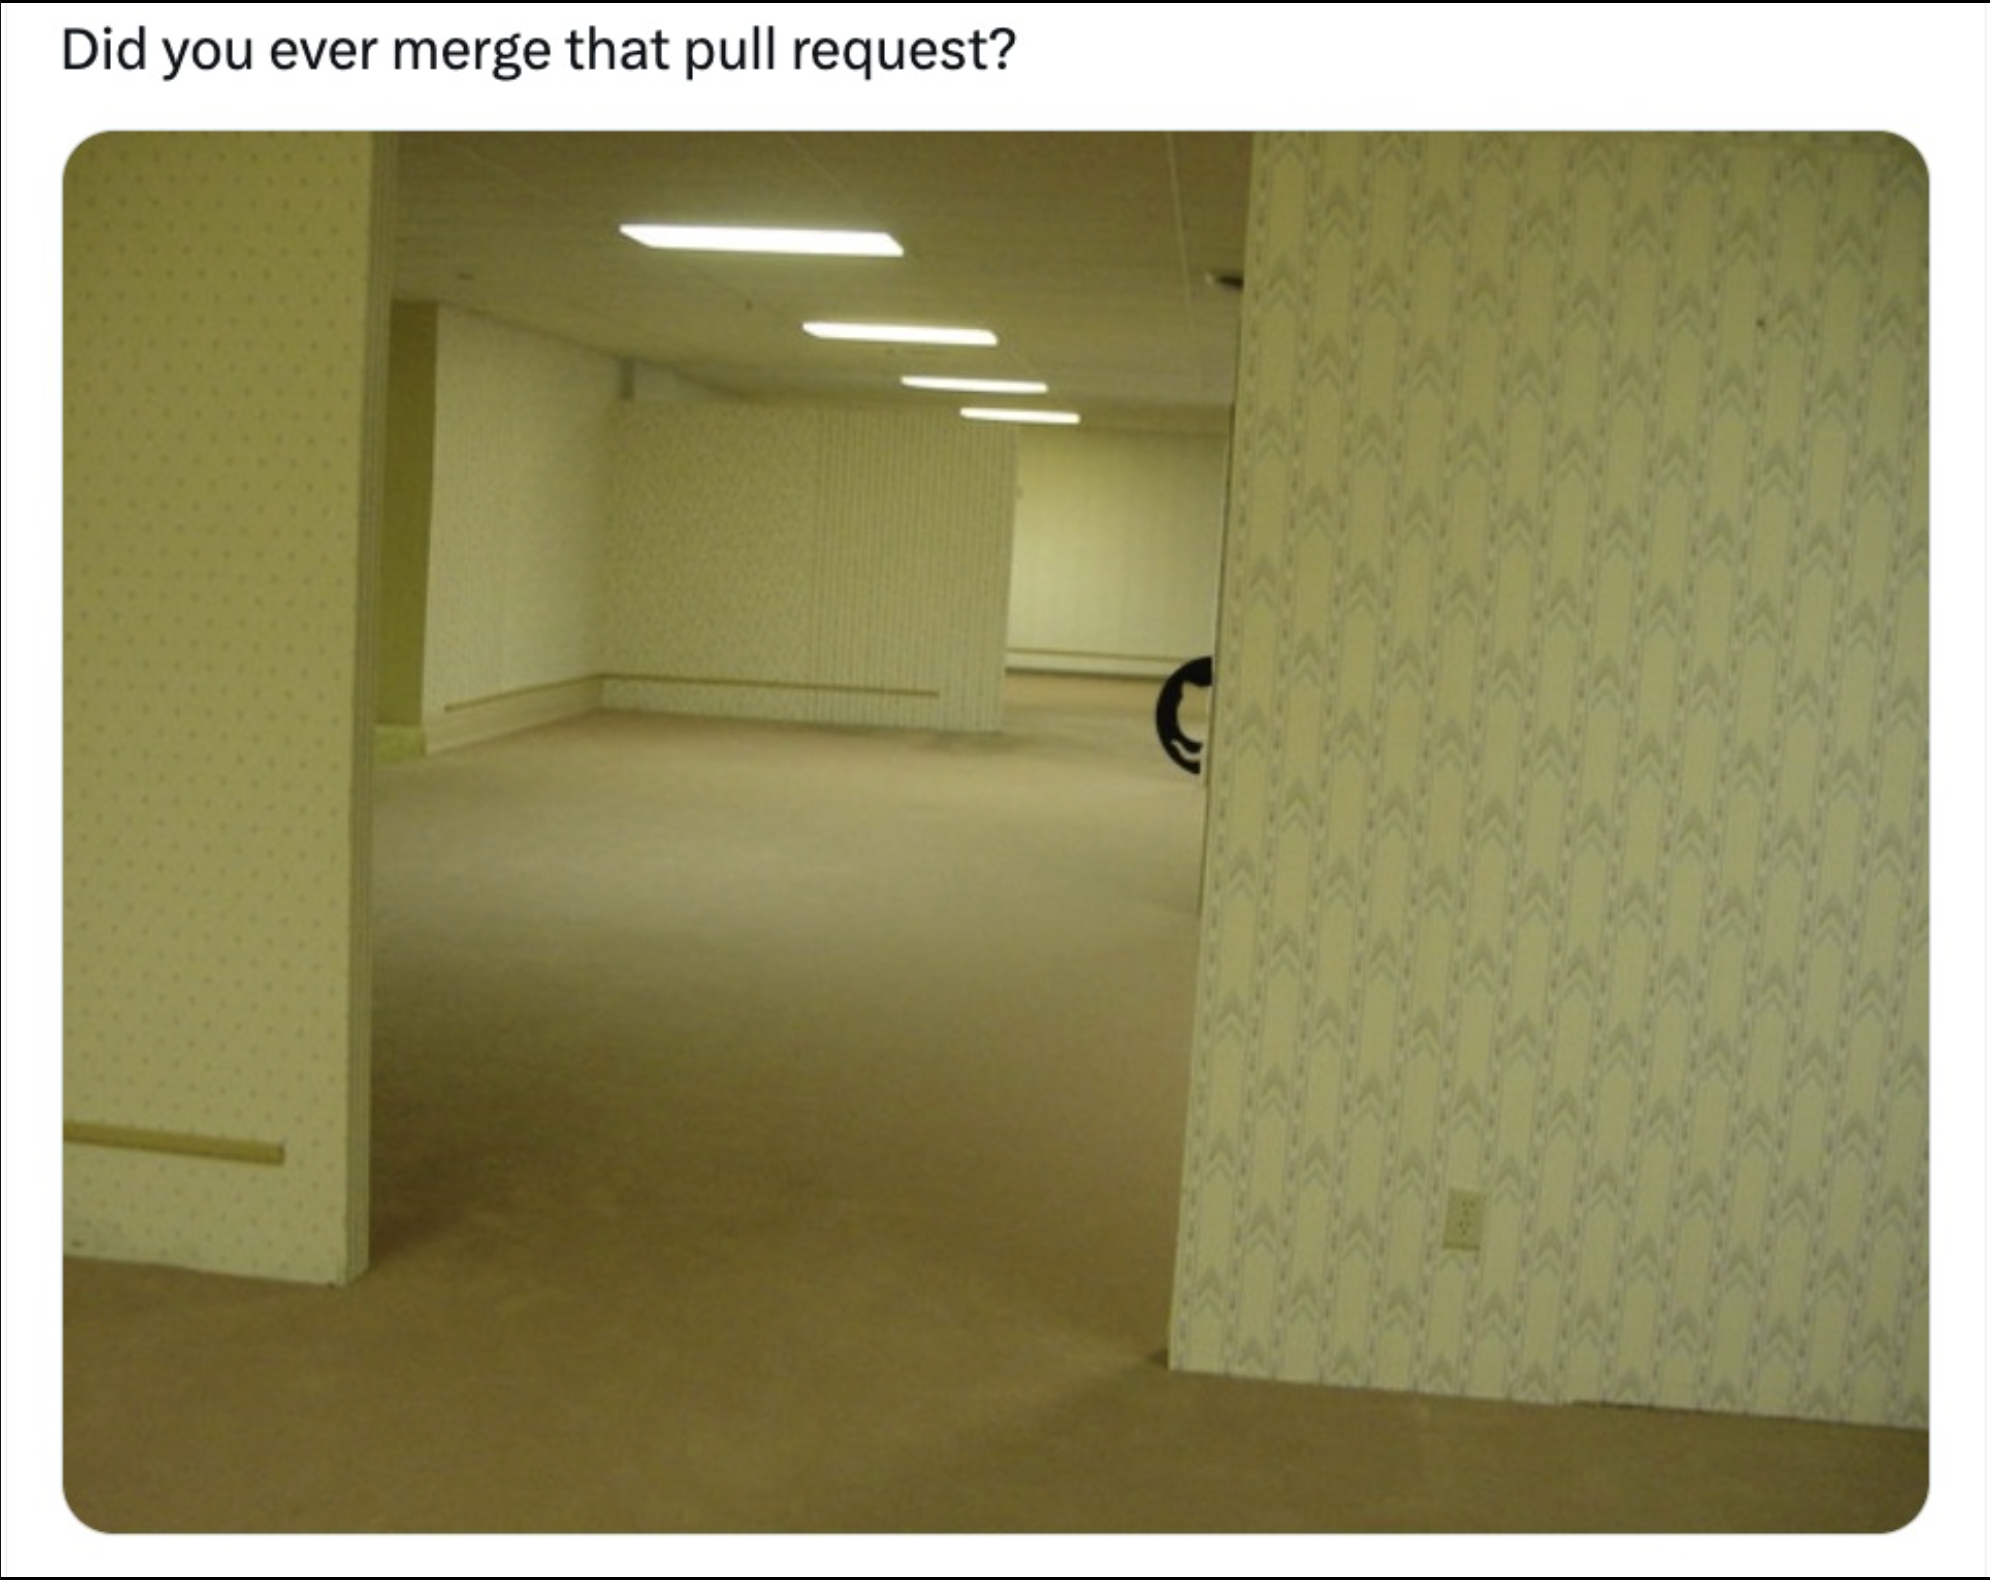
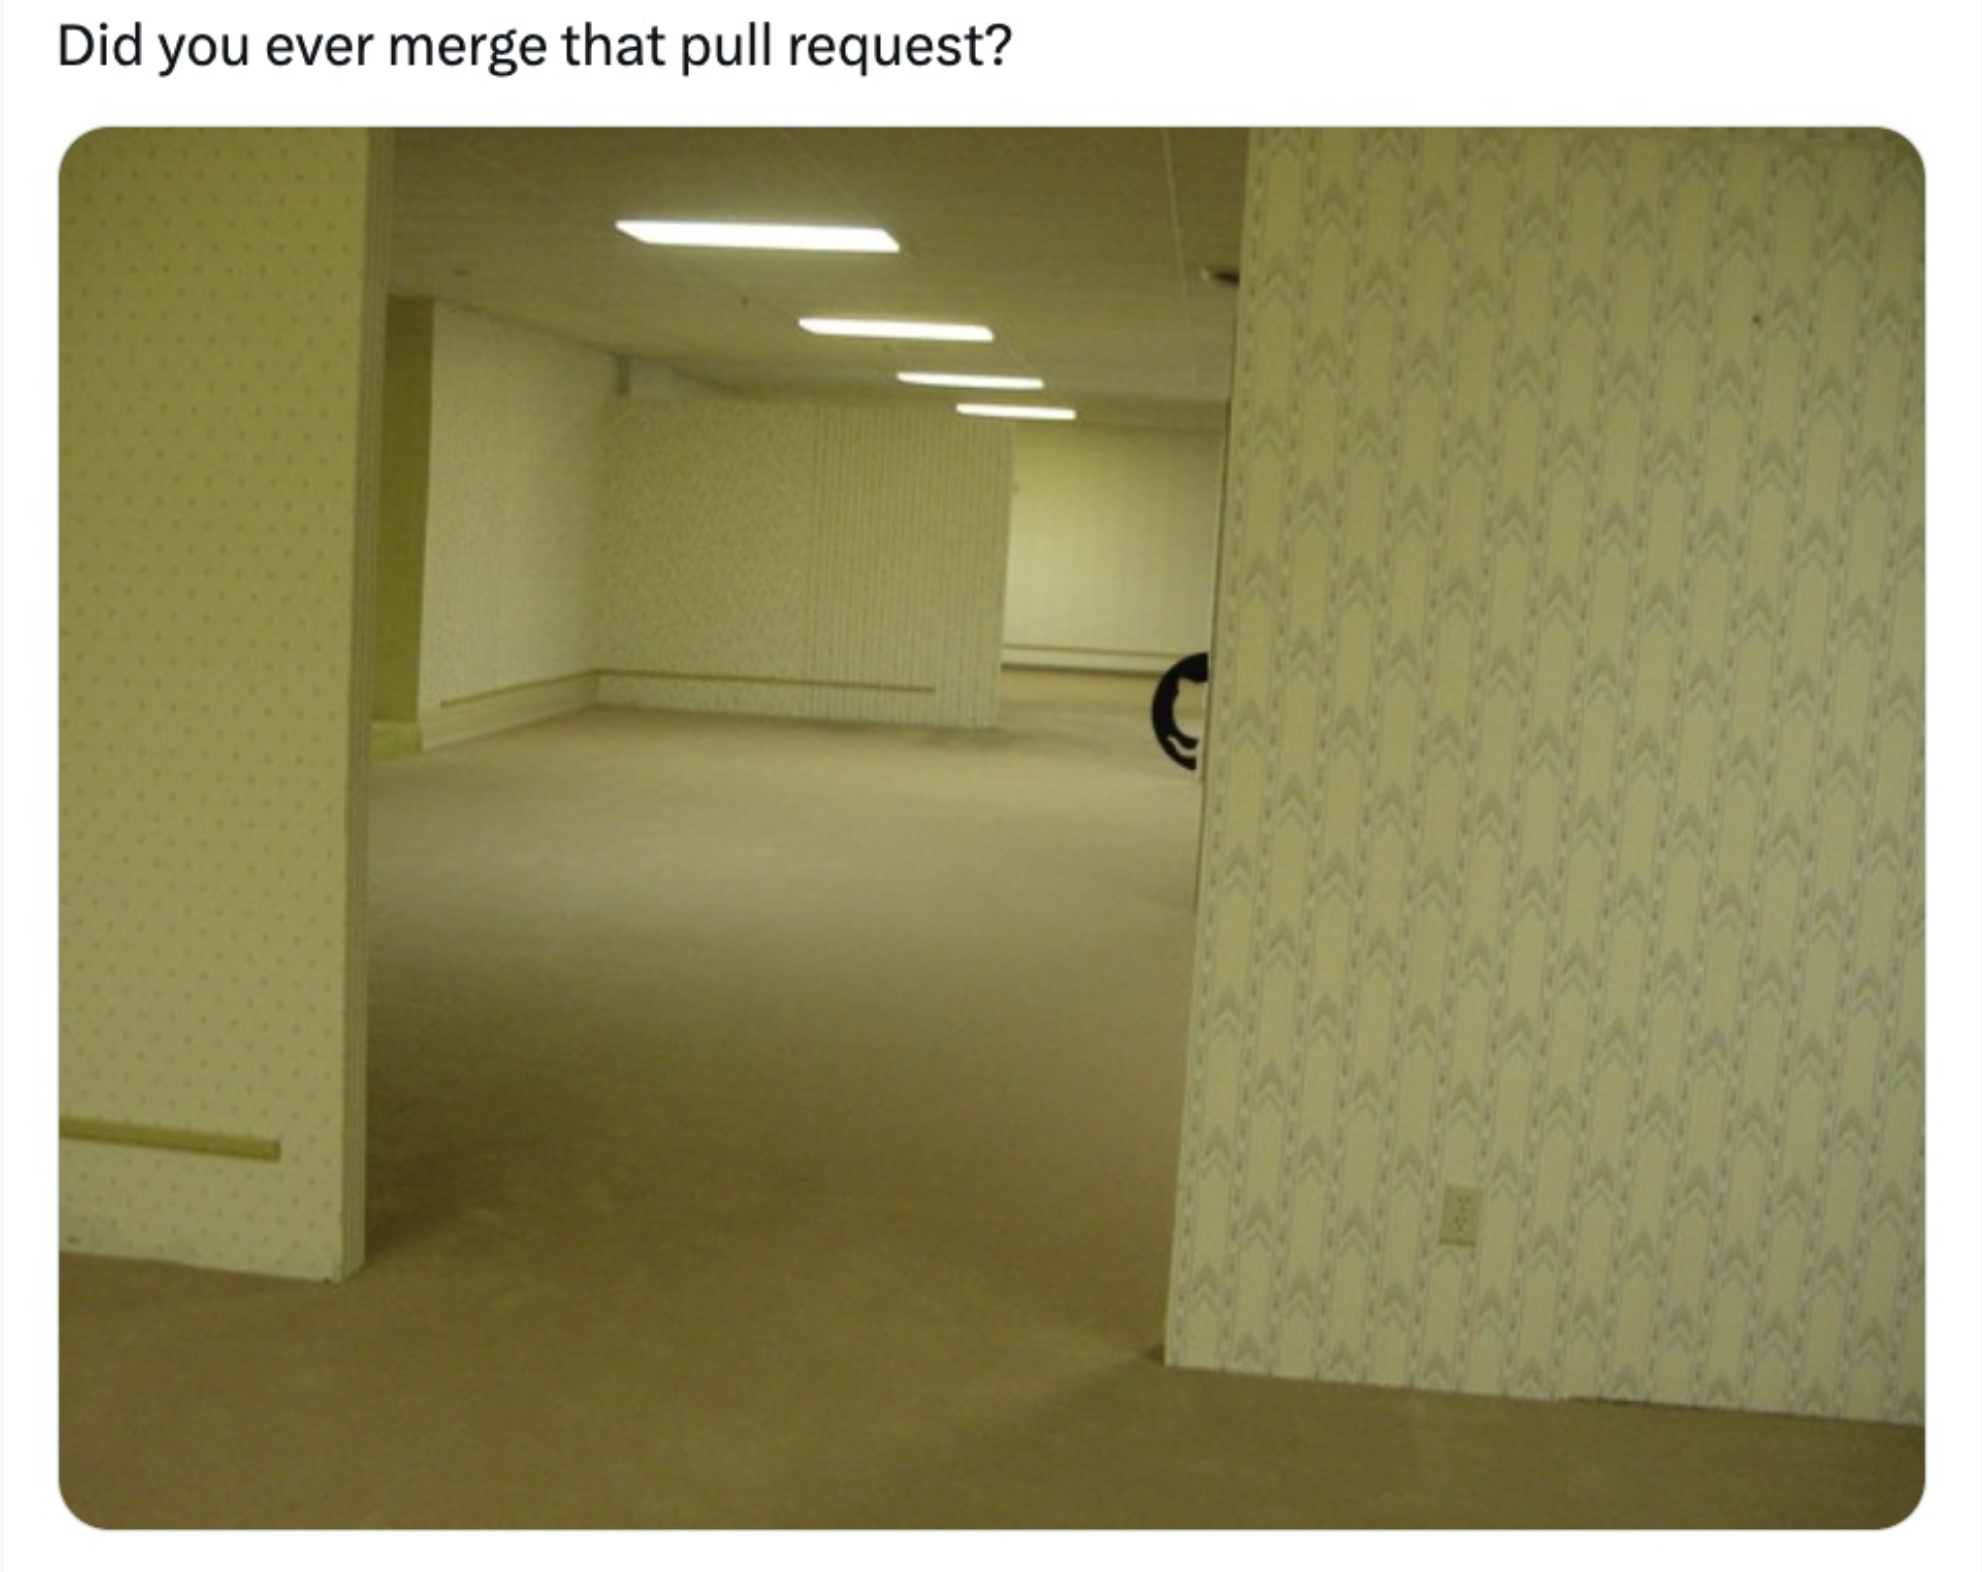
Move Programmer's Day first and remove image borders

diff --git a/index.html b/index.html
@@ -351,6 +351,23 @@
       <div class="carousel">
         <div class="carousel-track" id="carouselTrack" tabindex="0" role="region" aria-label="Featured social media posts. Use arrow keys to navigate.">
 
+          <article class="post-card">
+            <div class="post-banner post-banner--contain post-banner--fill-black" data-label="Programmer's Day · Instagram Reel">
+              <video autoplay muted loop playsinline preload="metadata" aria-label="Programmer's Day dedication video" onerror="this.closest('.post-banner').classList.add('no-img'); this.remove();">
+                <source src="images/programmers-day-9x16.mp4" type="video/mp4" />
+              </video>
+            </div>
+            <div class="post-body">
+              <span class="post-tag">Instagram</span>
+              <h3>Programmer's Day</h3>
+              <p>A dedication to all the programmers on their titular holiday</p>
+              <div class="post-meta">
+                <span class="post-stat">360K views</span>
+                <a class="post-link" href="https://www.instagram.com/reel/DdOXeB4jkx_/" target="_blank" rel="noopener">View video ↗</a>
+              </div>
+            </div>
+          </article>
+
           <!-- CARD 1, Pixel Coffee Contributions (Instagram) -->
           <article class="post-card">
             <div class="post-banner" data-label="Instagram">
@@ -391,7 +408,7 @@
           <article class="post-card">
             <div class="post-banner post-banner--contain post-banner--fill-white" data-label="Instagram">
               <!-- EDIT: upload to images/backrooms.png -->
-              <img src="images/backrooms.png" alt="Backrooms meme on Instagram, an empty liminal-space room captioned 'Did you ever merge that pull request?'" loading="lazy" onerror="this.closest('.post-banner').classList.add('no-img'); this.remove();" />
+              <img src="images/backrooms.png?v=20261031" alt="Backrooms meme on Instagram, an empty liminal-space room captioned 'Did you ever merge that pull request?'" loading="lazy" onerror="this.closest('.post-banner').classList.add('no-img'); this.remove();" />
             </div>
             <div class="post-body">
               <span class="post-tag">Instagram</span>
@@ -459,7 +476,7 @@
           <article class="post-card">
             <div class="post-banner" data-label="Instagram">
               <!-- EDIT: upload to images/world-password-day.png -->
-              <img src="images/world-password-day.png" alt="World Password Day meme, GitHub sign-in screen with the password 'hunter2'" loading="lazy" onerror="this.closest('.post-banner').classList.add('no-img'); this.remove();" />
+              <img src="images/world-password-day.png?v=20261031" alt="World Password Day meme, GitHub sign-in screen with the password 'hunter2'" loading="lazy" onerror="this.closest('.post-banner').classList.add('no-img'); this.remove();" />
             </div>
             <div class="post-body">
               <span class="post-tag">Instagram</span>
@@ -468,23 +485,6 @@
               <div class="post-meta">
                 <span class="post-stat">6.7K likes</span>
                 <a class="post-link" href="https://www.instagram.com/p/DJHPPbht8pA/" target="_blank" rel="noopener">View post ↗</a>
-              </div>
-            </div>
-          </article>
-
-          <article class="post-card">
-            <div class="post-banner post-banner--contain post-banner--fill-black" data-label="Programmer's Day · Instagram Reel">
-              <video autoplay muted loop playsinline preload="metadata" aria-label="Programmer's Day dedication video" onerror="this.closest('.post-banner').classList.add('no-img'); this.remove();">
-                <source src="images/programmers-day-9x16.mp4" type="video/mp4" />
-              </video>
-            </div>
-            <div class="post-body">
-              <span class="post-tag">Instagram</span>
-              <h3>Programmer's Day</h3>
-              <p>A dedication to all the programmers on their titular holiday</p>
-              <div class="post-meta">
-                <span class="post-stat">360K views</span>
-                <a class="post-link" href="https://www.instagram.com/reel/DdOXeB4jkx_/" target="_blank" rel="noopener">View video ↗</a>
               </div>
             </div>
           </article>
